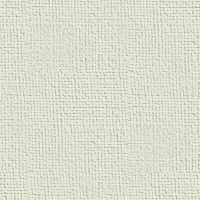
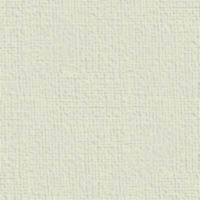
Added in a better canvass image, changed font to brown. Not sure i like that.

diff --git a/canvass-web-main/src/main/webapp/main/css/canvass.scss b/canvass-web-main/src/main/webapp/main/css/canvass.scss
@@ -2,8 +2,8 @@ body {
     width: 100%;
     height: 100%;
     font-family: 'Rufina', serif;
-    color: #262626;
-    background-color: #fffaf5 url(../image/canvass.png) repeat;
+    color: #473a03;
+    background: #333 url("image/canvass.png") repeat;
 }
 
 html {
